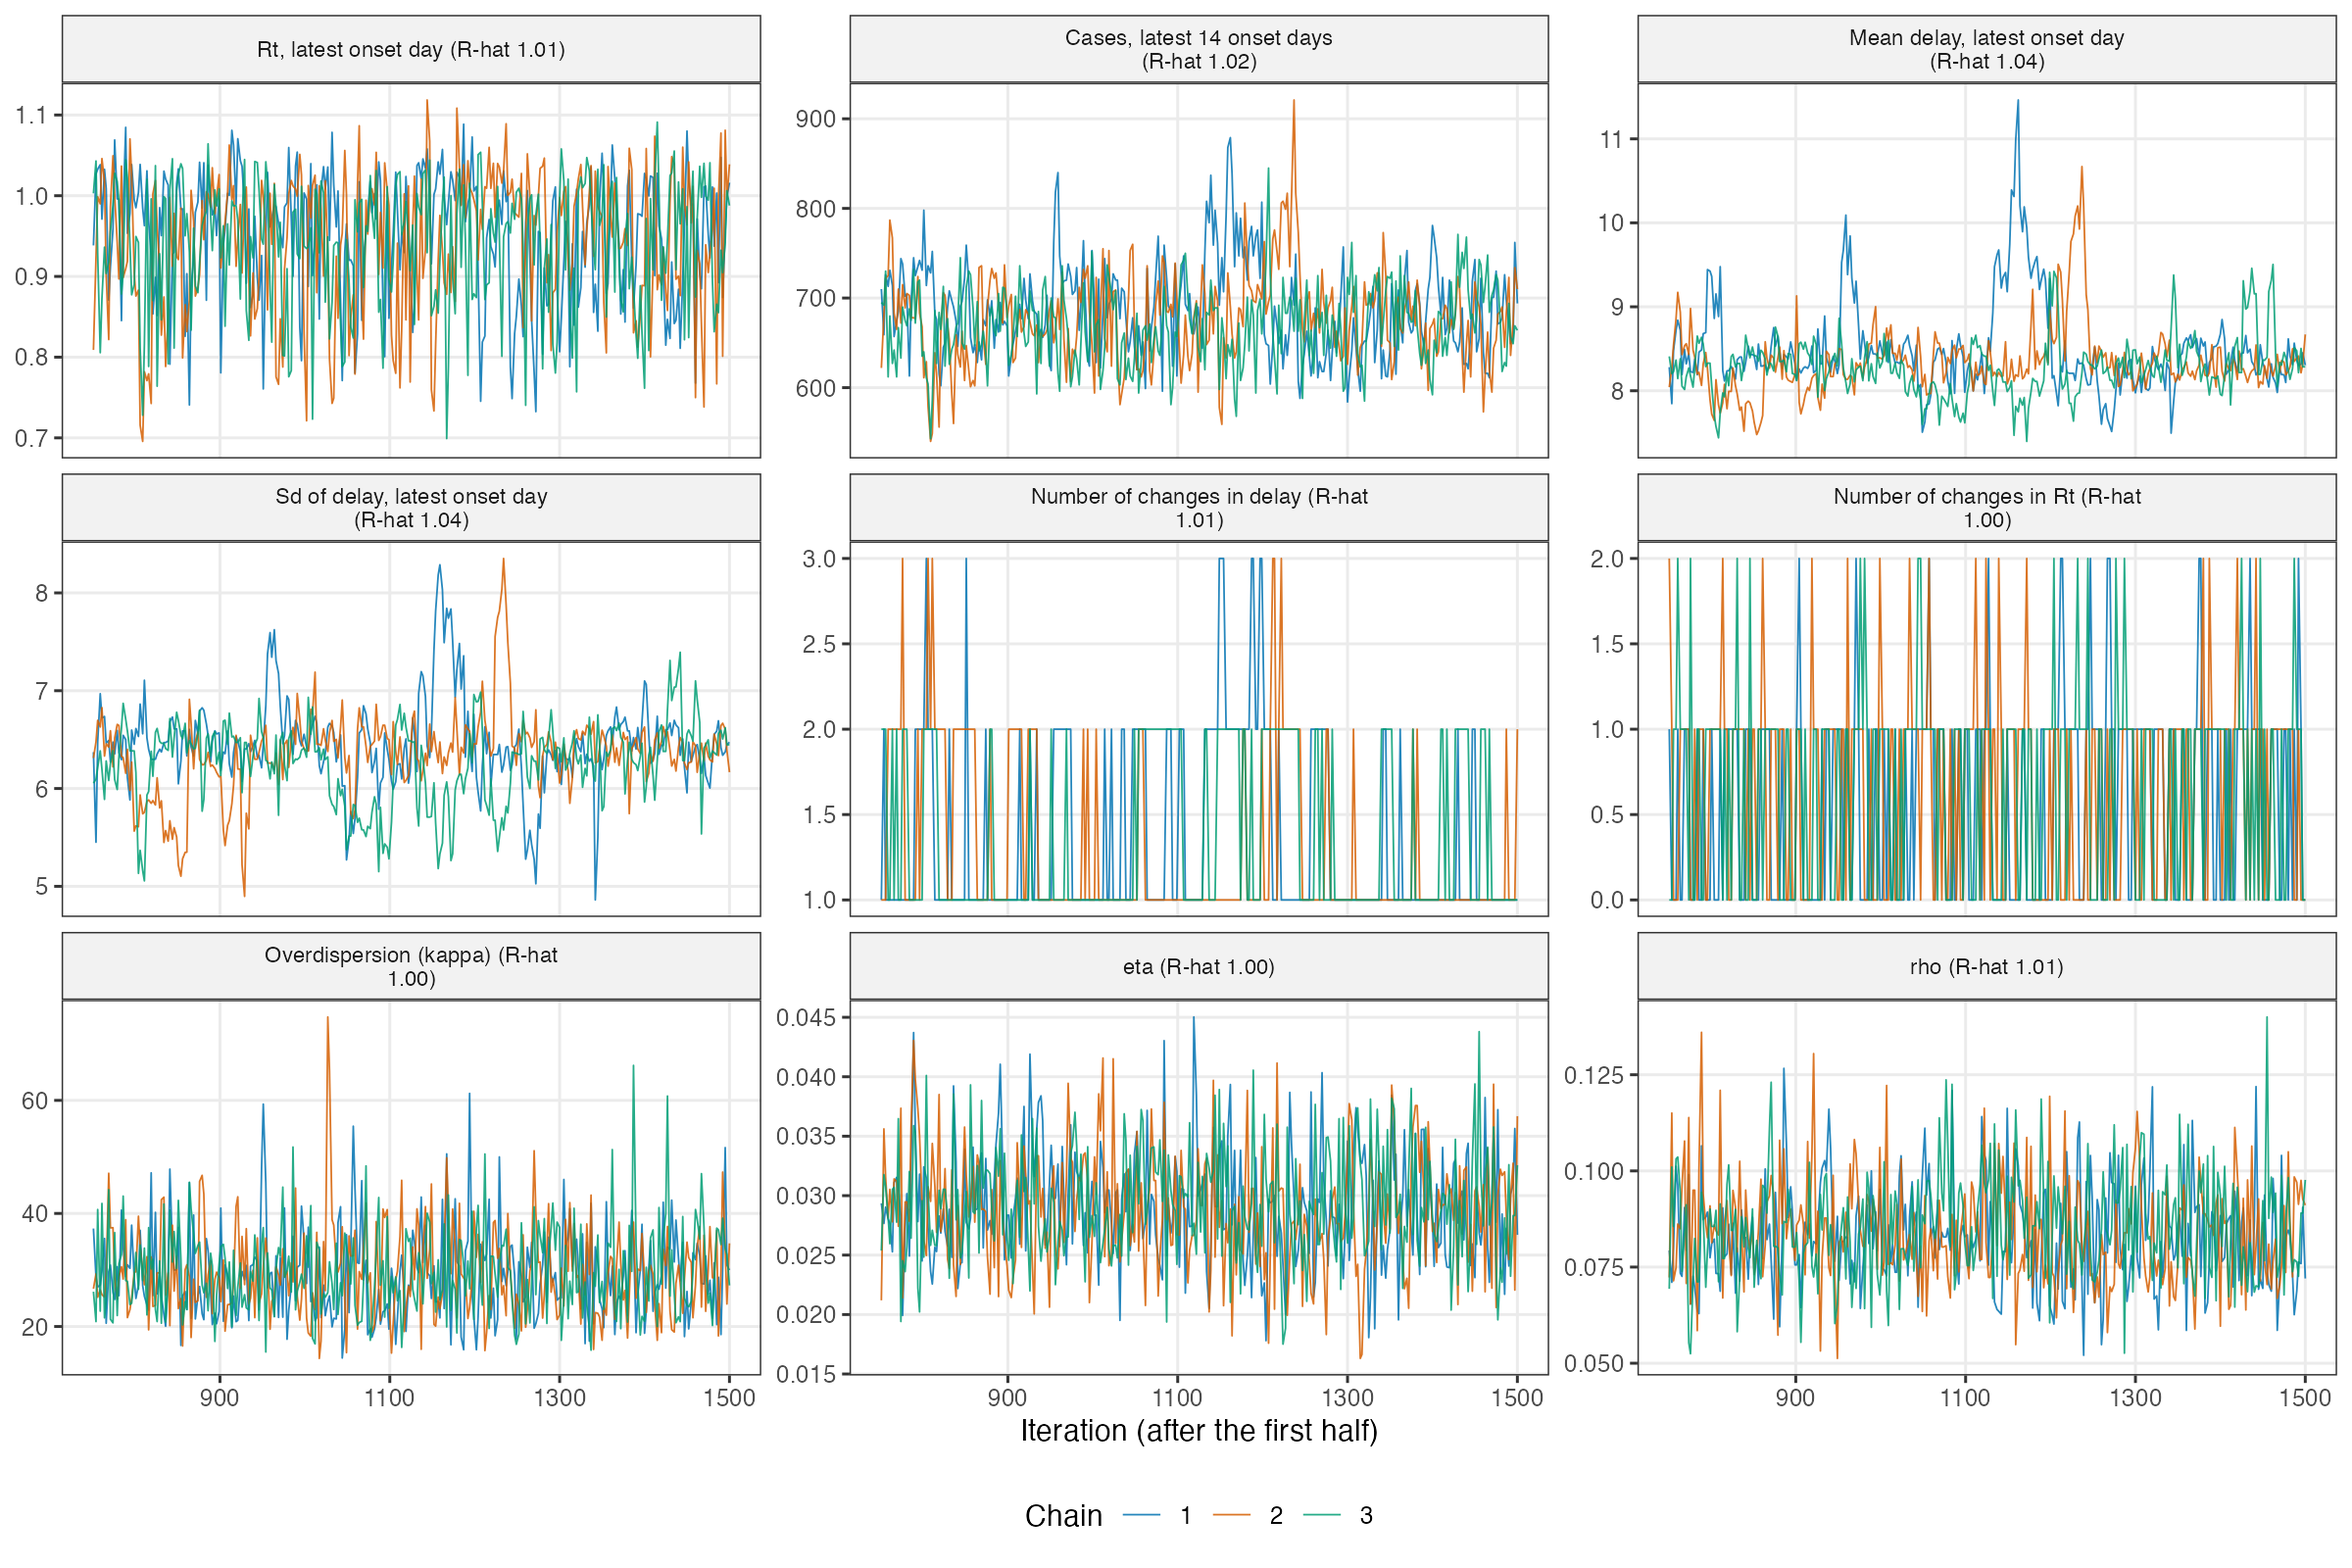
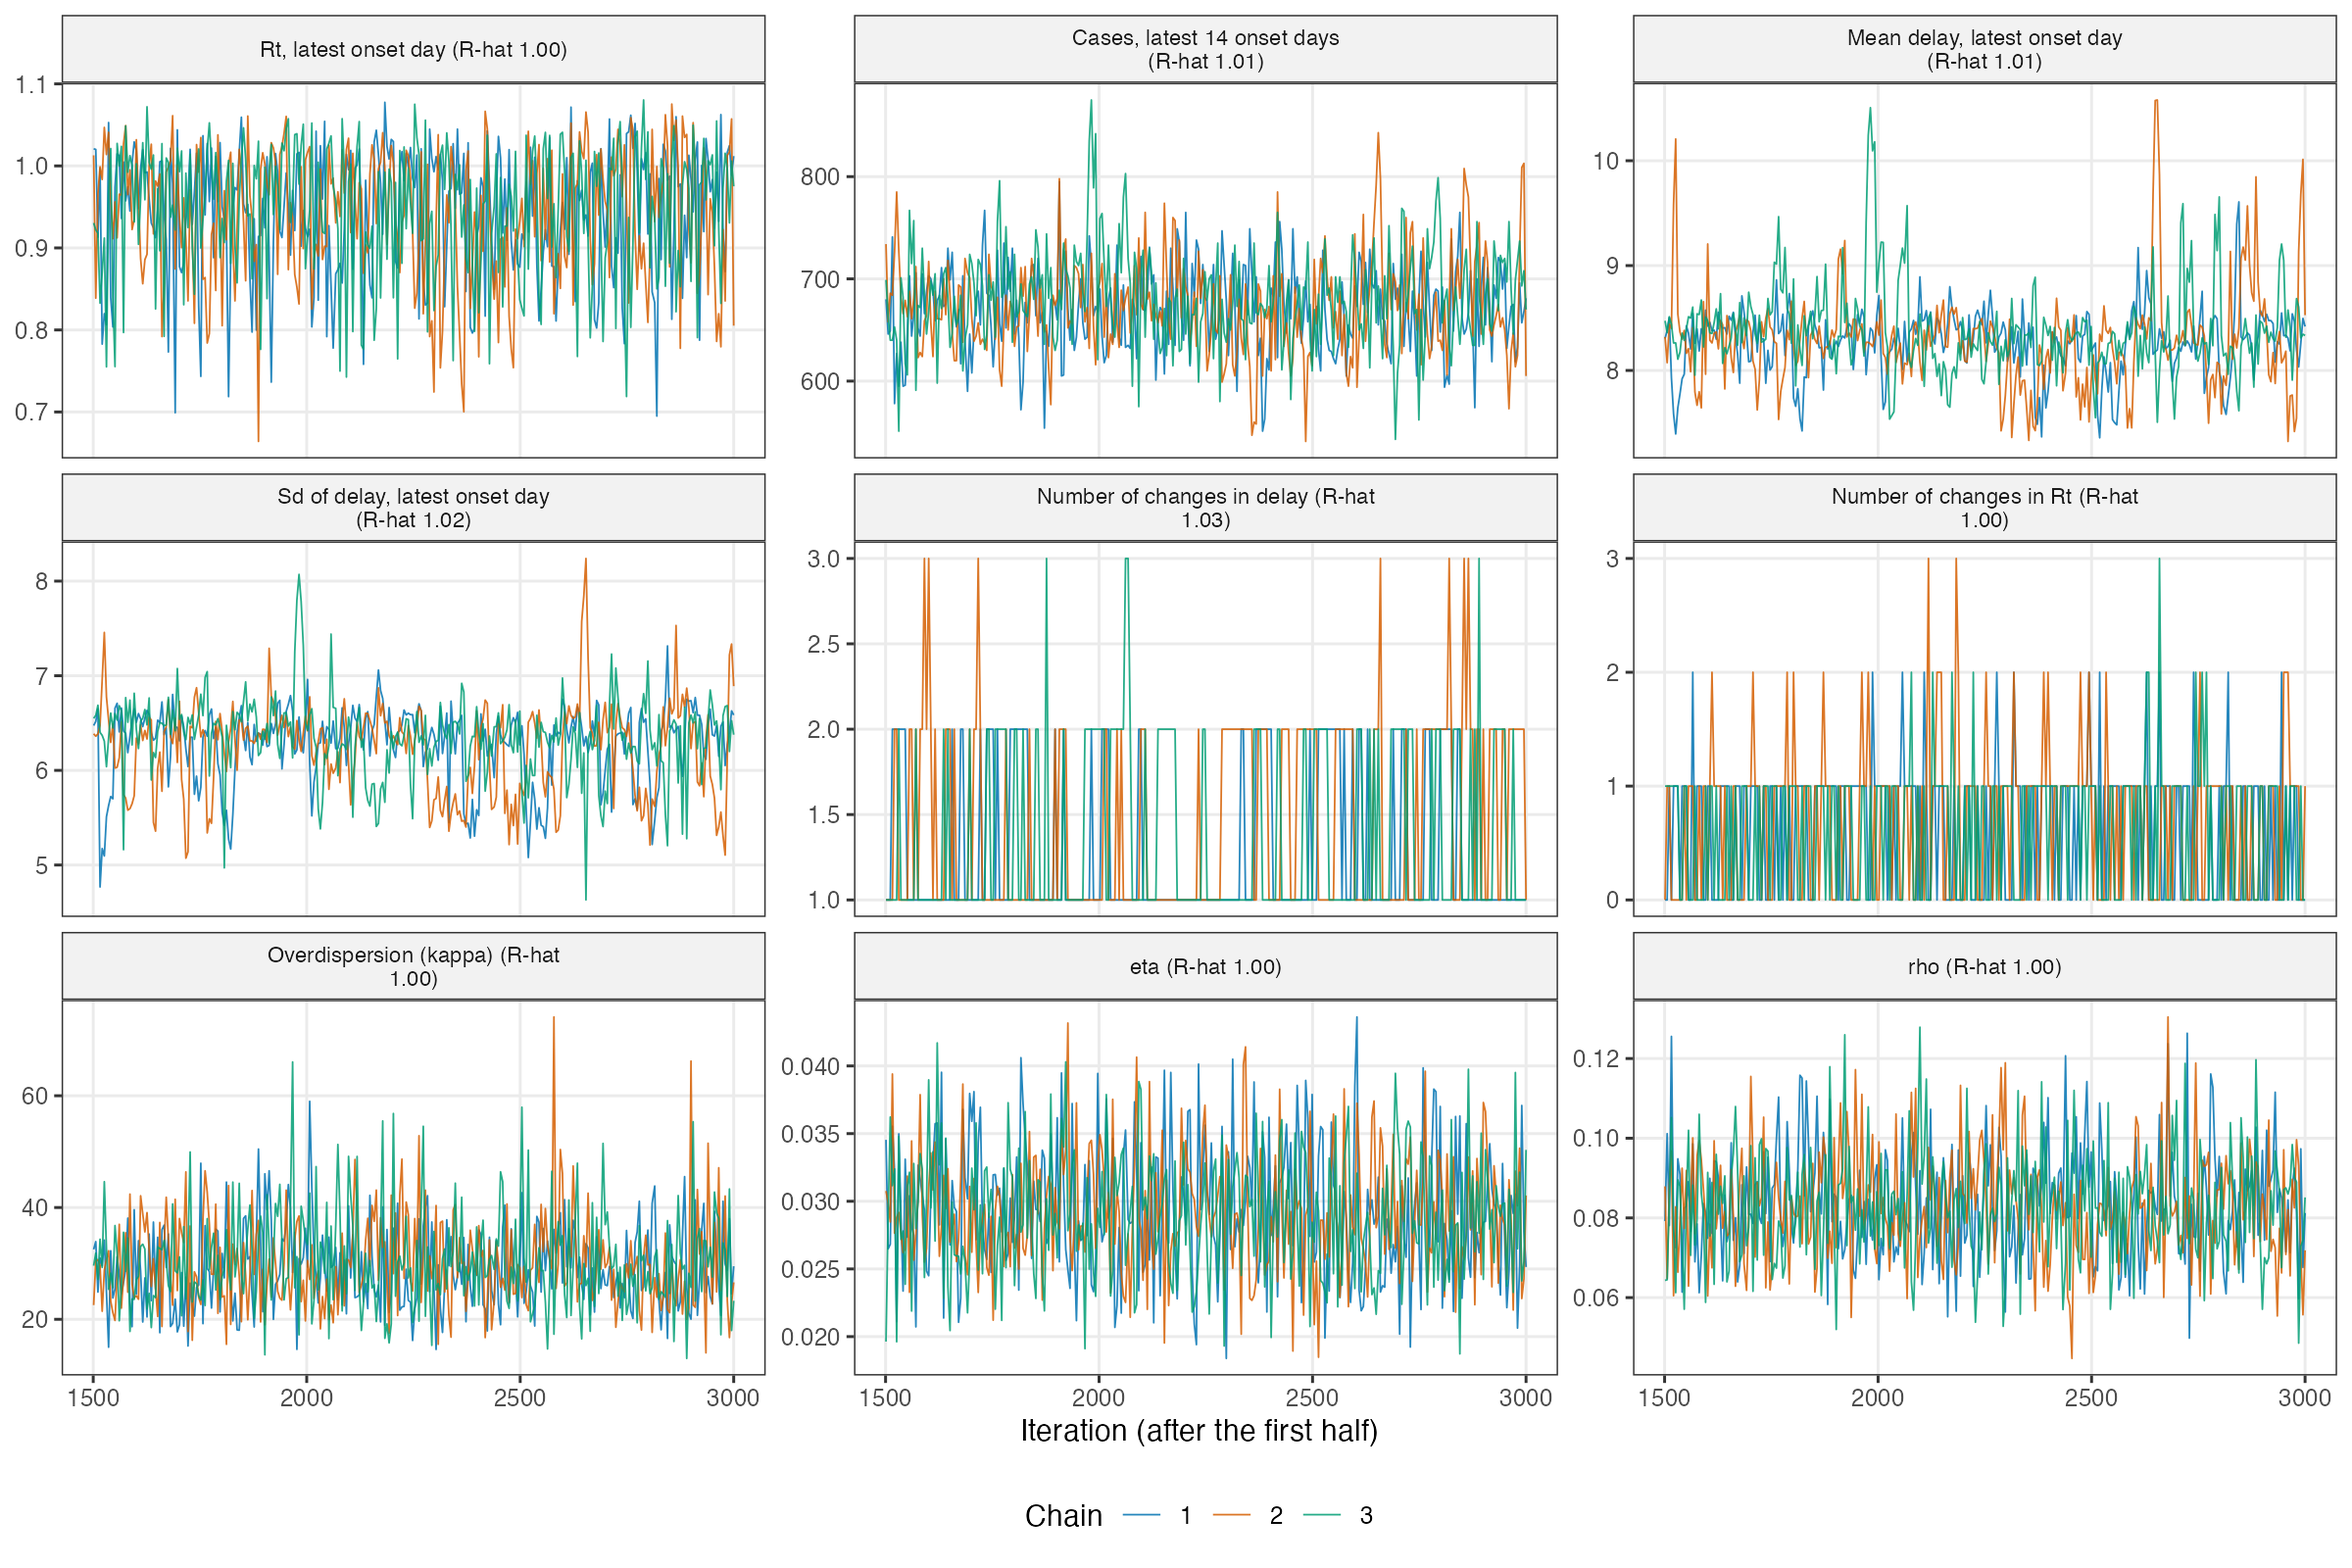
BVD change-point results from three chains of 3,000 iterations

diff --git a/outputs/tables/bvd_numbers.tex b/outputs/tables/bvd_numbers.tex
@@ -1,43 +1,43 @@
 % written by the pipeline (write_bvd_tables): do not edit by hand
 \newcommand{\bvdChains}{3}
-\newcommand{\bvdIterations}{1500}
+\newcommand{\bvdIterations}{3000}
 \newcommand{\bvdDraws}{900}
-\newcommand{\bvdRt}{0.96 (0.79 to 1.05)}
-\newcommand{\bvdRtFirst}{1.04}
+\newcommand{\bvdRt}{0.96 (0.80 to 1.04)}
+\newcommand{\bvdRtFirst}{1.05}
 \newcommand{\bvdRtChanges}{0.6}
 \newcommand{\bvdRtNoChange}{0.41}
-\newcommand{\bvdDelayMean}{8.3 (7.8 to 9.3)}
-\newcommand{\bvdDelaySd}{6.4 (5.6 to 7.0)}
+\newcommand{\bvdDelayMean}{8.3 (7.7 to 9.0)}
+\newcommand{\bvdDelaySd}{6.4 (5.4 to 6.8)}
 \newcommand{\bvdDelayChanges}{1.3}
 \newcommand{\bvdDelayNoChange}{0.00}
-\newcommand{\bvdKappa}{29 (19 to 42)}
+\newcommand{\bvdKappa}{29 (19 to 43)}
 \newcommand{\bvdVarianceRatio}{2.7}
 \newcommand{\bvdEta}{0.029 (0.022 to 0.037)}
 \newcommand{\bvdErroneousPerHundred}{3}
-\newcommand{\bvdRho}{0.083 (0.064 to 0.107)}
+\newcommand{\bvdRho}{0.082 (0.062 to 0.107)}
 \newcommand{\bvdErroneousDays}{12}
 \newcommand{\bvdRecentMedians}{41 and 57}
-\newcommand{\bvdRecentInterval}{27 to 77}
+\newcommand{\bvdRecentInterval}{26 to 78}
 \newcommand{\bvdProjection}{46}
-\newcommand{\bvdProjectionInterval}{27 to 71}
-\newcommand{\bvdCoverageMin}{79\%}
+\newcommand{\bvdProjectionInterval}{27 to 70}
+\newcommand{\bvdCoverageMin}{86\%}
 \newcommand{\bvdCoverageMax}{100\%}
 \newcommand{\bvdBiasMax}{9\%}
-\newcommand{\bvdPthree}{0.95}
-\newcommand{\bvdPseven}{0.35}
-\newcommand{\bvdPfourteen}{0.02}
-\newcommand{\bvdPvariation}{0.04}
+\newcommand{\bvdPthree}{0.93}
+\newcommand{\bvdPseven}{0.34}
+\newcommand{\bvdPfourteen}{0.01}
+\newcommand{\bvdPvariation}{0.05}
 \newcommand{\bvdPdispersion}{0.44}
-\newcommand{\bvdPweekdayOnset}{0.42}
-\newcommand{\bvdRhatCoreMax}{1.03}
-\newcommand{\bvdRhatDelayChangesMax}{1.06}
-\newcommand{\bvdRhatDelayMeanMax}{1.08}
-\newcommand{\bvdRhatWeekdayMax}{1.10}
-\newcommand{\bvdRhatKappaMax}{1.01}
-\newcommand{\bvdPsiMon}{1.14 (1.04 to 1.22)}
-\newcommand{\bvdPsiTue}{0.83 (0.76 to 0.92)}
-\newcommand{\bvdPsiWed}{1.07 (1.00 to 1.15)}
-\newcommand{\bvdPsiThu}{1.05 (0.97 to 1.13)}
-\newcommand{\bvdPsiFri}{1.12 (1.06 to 1.19)}
-\newcommand{\bvdPsiSat}{0.90 (0.85 to 0.96)}
+\newcommand{\bvdPweekdayOnset}{0.44}
+\newcommand{\bvdRhatCoreMax}{1.02}
+\newcommand{\bvdRhatDelayChangesMax}{1.03}
+\newcommand{\bvdRhatDelayMeanMax}{1.04}
+\newcommand{\bvdRhatWeekdayMax}{1.04}
+\newcommand{\bvdRhatKappaMax}{1.00}
+\newcommand{\bvdPsiMon}{1.13 (1.05 to 1.22)}
+\newcommand{\bvdPsiTue}{0.83 (0.75 to 0.91)}
+\newcommand{\bvdPsiWed}{1.08 (1.01 to 1.15)}
+\newcommand{\bvdPsiThu}{1.05 (0.96 to 1.13)}
+\newcommand{\bvdPsiFri}{1.13 (1.06 to 1.20)}
+\newcommand{\bvdPsiSat}{0.90 (0.84 to 0.97)}
 \newcommand{\bvdPsiSun}{0.93 (0.88 to 0.99)}

diff --git a/outputs/tables/bvd_checks.tex b/outputs/tables/bvd_checks.tex
@@ -3,16 +3,16 @@
 Statistic & Observed & Replicates (median, 90\% interval) & $p$ \\
 \midrule
 \emph{Reporting} \\
-Proportion reported within 3 days of onset & 0.187 & 0.206 (0.187, 0.223) & 0.95 \\
-Proportion reported within 7 days of onset & 0.484 & 0.480 (0.460, 0.501) & 0.35 \\
-Proportion reported within 14 days of onset & 0.826 & 0.806 (0.790, 0.822) & 0.02 \\
-Variation between reports in cases added (sd / mean) & 0.712 & 0.674 (0.638, 0.710) & 0.04 \\
+Proportion reported within 3 days of onset & 0.187 & 0.204 (0.185, 0.225) & 0.93 \\
+Proportion reported within 7 days of onset & 0.484 & 0.479 (0.458, 0.502) & 0.34 \\
+Proportion reported within 14 days of onset & 0.826 & 0.806 (0.790, 0.822) & 0.01 \\
+Variation between reports in cases added (sd / mean) & 0.712 & 0.675 (0.640, 0.712) & 0.05 \\
 Largest number of cases added to one onset day in one report & 46 & 42 (37, 48) & 0.17 \\
-Proportion of updates in which a count does not change & 0.602 & 0.591 (0.577, 0.605) & 0.10 \\
-Number of updates in which a count falls & 37 & 26 (18, 37) & 0.06 \\
+Proportion of updates in which a count does not change & 0.602 & 0.590 (0.577, 0.603) & 0.09 \\
+Number of updates in which a count falls & 37 & 27 (17, 38) & 0.08 \\
 \addlinespace
 \emph{Transmission} \\
-Dispersion of cases about the renewal mean (variance / mean) & 3.0 & 2.9 (2.0, 4.4) & 0.44 \\
-Variation in cases between days of the week of onset & 0.068 & 0.064 (0.035, 0.100) & 0.42 \\
+Dispersion of cases about the renewal mean (variance / mean) & 3.0 & 2.9 (2.0, 4.5) & 0.44 \\
+Variation in cases between days of the week of onset & 0.068 & 0.064 (0.036, 0.099) & 0.44 \\
 \bottomrule
 \end{tabular}

diff --git a/outputs/tables/bvd_rhat.tex b/outputs/tables/bvd_rhat.tex
@@ -3,17 +3,17 @@
  & \multicolumn{6}{c}{Analysis date} \\
 Quantity & 16 Aug & 30 Aug & 5 Sep & 6 Sep & 20 Sep & 1 Oct \\
 \midrule
-$R_t$, latest onset day & 1.01 & 1.00 & 1.00 & 1.00 & 1.03 & 1.01 \\
-Cases, latest 14 onset days in total & 1.04 & 1.03 & 1.00 & 1.01 & 1.04 & 1.02 \\
-Cases, worst single onset day & 1.03 & 1.02 & 1.01 & 1.01 & 1.02 & 1.02 \\
-Number of changes in $R_t$ & 1.00 & 1.00 & 1.00 & 1.00 & 1.02 & 1.00 \\
-$\kappa$ & 1.00 & 1.00 & 1.00 & 1.01 & 1.00 & 1.00 \\
+$R_t$, latest onset day & 1.00 & 1.00 & 1.00 & 1.00 & 1.00 & 1.00 \\
+Cases, latest 14 onset days in total & 1.01 & 1.01 & 1.01 & 1.00 & 1.01 & 1.01 \\
+Cases, worst single onset day & 1.02 & 1.01 & 1.01 & 1.00 & 1.01 & 1.01 \\
+Number of changes in $R_t$ & 1.00 & 1.00 & 1.00 & 1.00 & 1.00 & 1.00 \\
+$\kappa$ & 1.00 & 1.00 & 1.00 & 1.00 & 1.00 & 1.00 \\
 $\eta$ & 1.00 & 1.00 & 1.00 & 1.00 & 1.00 & 1.00 \\
-$\rho$ & 1.02 & 1.00 & 1.00 & 1.00 & 1.00 & 1.01 \\
+$\rho$ & 1.00 & 1.00 & 1.00 & 1.00 & 1.00 & 1.00 \\
 \addlinespace
-Mean delay, latest onset day & 1.07 & 1.06 & 1.03 & 1.08 & 1.03 & 1.04 \\
-Standard deviation of delay, latest onset day & 1.05 & 1.08 & 1.02 & 1.05 & 1.03 & 1.04 \\
-Number of changes in delay & 1.03 & 1.06 & 1.00 & 1.00 & 1.03 & 1.01 \\
-Effects of day of week (worst) & 1.02 & 1.03 & 1.07 & 1.10 & 1.06 & 1.03 \\
+Mean delay, latest onset day & 1.04 & 1.04 & 1.02 & 1.00 & 1.03 & 1.01 \\
+Standard deviation of delay, latest onset day & 1.03 & 1.04 & 1.02 & 1.00 & 1.02 & 1.02 \\
+Number of changes in delay & 1.02 & 1.01 & 1.01 & 1.00 & 1.02 & 1.03 \\
+Effects of day of week (worst) & 1.04 & 1.04 & 1.03 & 1.01 & 1.01 & 1.01 \\
 \bottomrule
 \end{tabular}

diff --git a/outputs/tables/bvd_dates.tex b/outputs/tables/bvd_dates.tex
@@ -3,11 +3,11 @@
 Analysis date & Score & Coverage of & Bias & $R_t$, latest onset day & Mean delay, latest \\
  & & 90\% intervals & & & onset day (days) \\
 \midrule
-16 August & 0.055 & 100\% & $-5\%$ & 1.10 (1.02, 1.19) & 9.2 (8.5, 10.6) \\
-30 August & 0.081 & 79\% & $+9\%$ & 1.09 (1.02, 1.16) & 8.6 (8.0, 9.2) \\
-5 September & 0.066 & 93\% & $+4\%$ & 1.06 (1.00, 1.12) & 8.5 (7.9, 9.1) \\
-6 September & 0.061 & 86\% & $+1\%$ & 1.06 (0.96, 1.11) & 8.4 (7.9, 8.9) \\
-20 September & 0.056 & 100\% & $+4\%$ & 0.98 (0.69, 1.06) & 7.3 (6.8, 8.0) \\
-1 October &  &  &  & 0.96 (0.79, 1.05) & 8.3 (7.8, 9.3) \\
+16 August & 0.054 & 100\% & $-5\%$ & 1.09 (1.01, 1.18) & 9.1 (8.4, 10.1) \\
+30 August & 0.078 & 93\% & $+9\%$ & 1.09 (1.03, 1.15) & 8.6 (8.0, 9.3) \\
+5 September & 0.065 & 93\% & $+4\%$ & 1.07 (1.00, 1.12) & 8.5 (8.0, 9.2) \\
+6 September & 0.060 & 86\% & $+1\%$ & 1.05 (0.96, 1.12) & 8.3 (7.8, 8.9) \\
+20 September & 0.057 & 100\% & $+4\%$ & 0.98 (0.68, 1.06) & 7.2 (6.8, 7.9) \\
+1 October &  &  &  & 0.96 (0.80, 1.04) & 8.3 (7.7, 9.0) \\
 \bottomrule
 \end{tabular}
